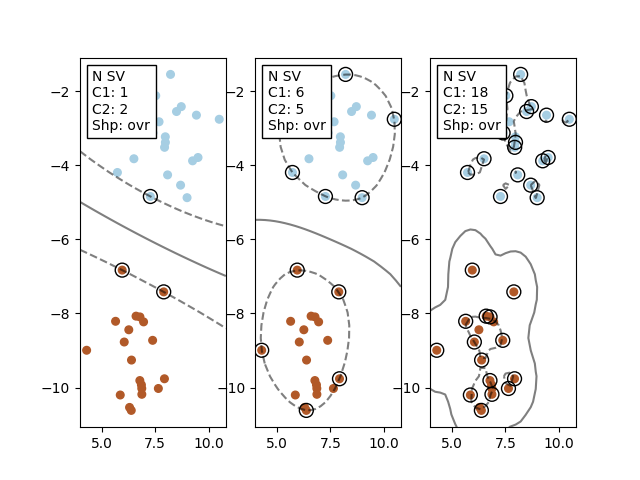
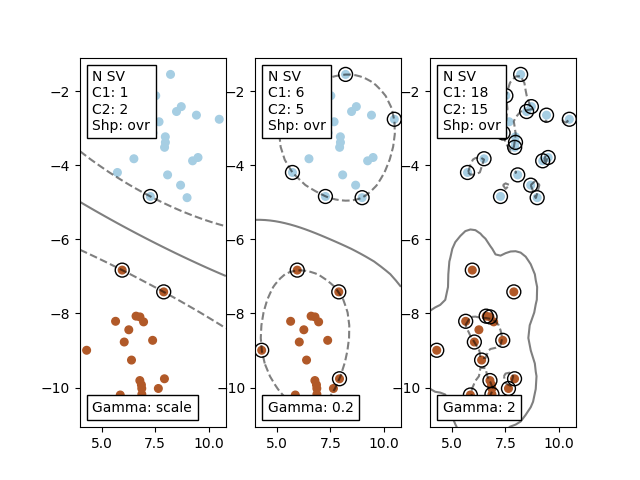
...

Changed region(s): [[0.125, 0.8125, 0.3125, 0.9062], [0.6562, 0.8125, 0.8438, 0.9062], [0.4062, 0.8125, 0.5625, 0.9062]]

diff --git a/08_SVM/HW8.py b/08_SVM/HW8.py
@@ -1,4 +1,5 @@
 from matplotlib.colors import LinearSegmentedColormap
+from numpy.core.fromnumeric import mean
 import sklearn
 from tools import plot_svm_margin, load_cancer
 from sklearn import svm
@@ -8,7 +9,8 @@ from sklearn.metrics import (accuracy_score, precision_score,
 from matplotlib.offsetbox import AnchoredText
 import numpy as np
 import matplotlib.pyplot as plt
-
+from tabulate import tabulate
+import timeit
 
 def _plot_linear_kernel():
     X, t = make_blobs(n_samples=40, centers=2)
@@ -84,49 +86,69 @@ def _compare_gamma():
     clf.fit(X,t)
     
     _subplot_svm_margin(clf, X, t, 3, 1)
+    anchored_text = AnchoredText("Gamma: {}".format(clf.gamma) , loc=3)
+    ax = plt.gca()
+    ax.add_artist(anchored_text)
+
 
     clf = svm.SVC(kernel='rbf',C=1000, gamma=0.2)
     clf.fit(X,t)
     ...
     _subplot_svm_margin(clf, X, t, 3, 2)
+    anchored_text = AnchoredText("Gamma: {}".format(clf.gamma) , loc=3)
+    ax = plt.gca()
+    ax.add_artist(anchored_text)
 
     clf = svm.SVC(kernel='rbf',C=1000, gamma=2)
     clf.fit(X,t)
 
     _subplot_svm_margin(clf, X, t, 3, 3)
-    
+    anchored_text = AnchoredText("Gamma: {}".format(clf.gamma) , loc=3)
+    ax = plt.gca()
+    ax.add_artist(anchored_text)
     plt.savefig("08_SVM/1_3_1.png")
     plt.show()
 
 
 def _compare_C():
     X, t = make_blobs(n_samples=40, centers=2, random_state=6)
-
+    plt.figure(figsize=(15,10)) 
     clf = svm.SVC(kernel='linear',C=1000)
     clf.fit(X,t)
 
     _subplot_svm_margin(clf, X, t, 5, 1)
-
+    anchored_text = AnchoredText("C: {}".format(clf.C) , loc=3)
+    ax = plt.gca()
+    ax.add_artist(anchored_text)
     clf = svm.SVC(kernel='linear',C=0.5)
     clf.fit(X,t)
 
     _subplot_svm_margin(clf, X, t, 5, 2)
-
+    anchored_text = AnchoredText("C: {}".format(clf.C) , loc=3)
+    ax = plt.gca()
+    ax.add_artist(anchored_text)
     clf = svm.SVC(kernel='linear',C=0.3)
     clf.fit(X,t)
+    
 
     _subplot_svm_margin(clf, X, t, 5, 3)
-
+    anchored_text = AnchoredText("C: {}".format(clf.C) , loc=3)
+    ax = plt.gca()
+    ax.add_artist(anchored_text)
     clf = svm.SVC(kernel='linear',C=0.05)
     clf.fit(X,t)
 
     _subplot_svm_margin(clf, X, t, 5, 4)
-
+    anchored_text = AnchoredText("C: {}".format(clf.C) , loc=3)
+    ax = plt.gca()
+    ax.add_artist(anchored_text)
     clf = svm.SVC(kernel='linear',C=0.0001)
     clf.fit(X,t)
 
     _subplot_svm_margin(clf, X, t, 5, 5)
-    
+    anchored_text = AnchoredText("C: {}".format(clf.C) , loc=3)
+    ax = plt.gca()
+    ax.add_artist(anchored_text)
     plt.savefig("08_SVM/1_5_1.png")
     plt.show()
 
@@ -145,23 +167,50 @@ def train_test_SVM(
 
     This function should return (accuracy, precision, recall)
     '''
+    start = timeit.default_timer()
     svc.fit(X_train,t_train)
+    
     y = svc.predict(X_test)
-    print(accuracy_score(t_test,y))
-    print(precision_score(t_test, y))
-    print(recall_score(t_test, y))
+    end = timeit.default_timer()
+    print(end-start)
+    return accuracy_score(t_test,y), precision_score(t_test, y), recall_score(t_test, y), (end-start)
 
 #_plot_linear_kernel()
-_compare_gamma()
-_compare_C()
+#_compare_gamma()
+#_compare_C()
 
-(X_train, t_train), (X_test, t_test) = load_cancer()
 
-svc = svm.SVC(kernel='linear',C=1000)
-train_test_SVM(svc, X_train, t_train, X_test, t_test)
 
-svc = svm.SVC(kernel='rbf',C=1000)
-train_test_SVM(svc, X_train, t_train, X_test, t_test)
+res=np.empty((3,4))
 
-svc = svm.SVC(kernel='poly',C=1000)
-train_test_SVM(svc, X_train, t_train, X_test, t_test)
+fcns=['linear', 'rbf', 'poly']
+
+
+
+for i in range(3):
+    accs, precs, recs, times = [], [], [], []
+    for n in range(20):    
+
+        (X_train, t_train), (X_test, t_test) = load_cancer()
+        svc = svm.SVC(kernel=fcns[i],C=1000)
+        acc, prec, rec, time = train_test_SVM(svc, X_train, t_train, X_test, t_test)
+        accs.append(acc)
+        precs.append(prec)
+        recs.append(rec)
+        times.append(time)
+        print(i,n)
+    res[i] = [mean(accs), mean(precs), mean(recs), mean(times)] 
+
+a=('acc',
+'prec',
+'rec',
+'time')
+
+fcns=(['linear'], 
+    ['rbf'], 
+    ['poly'])
+
+tab = np.append(np.array(fcns), res, axis=1)
+
+print (tabulate(tab, headers=a))
+
